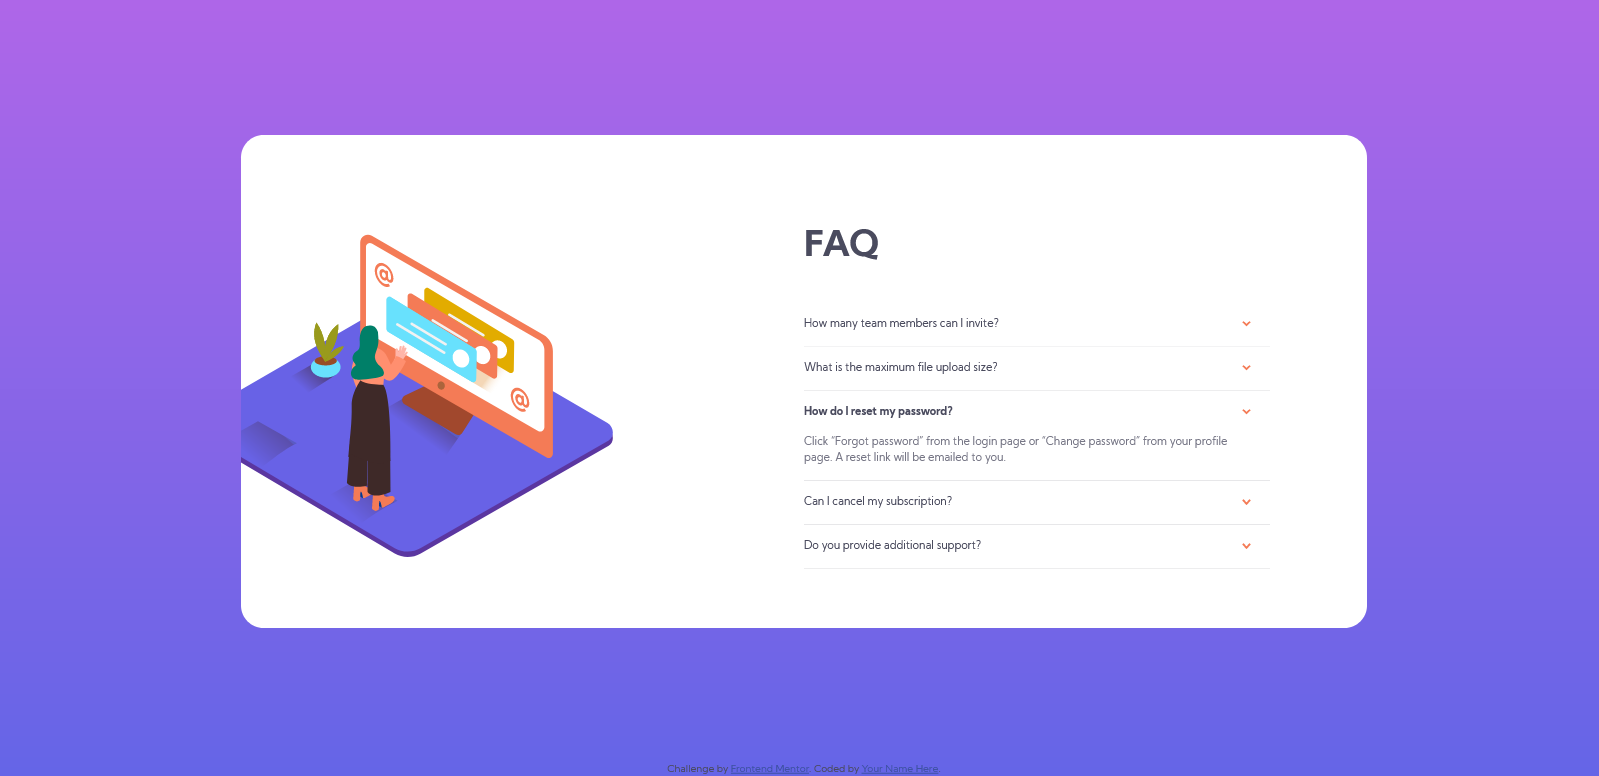
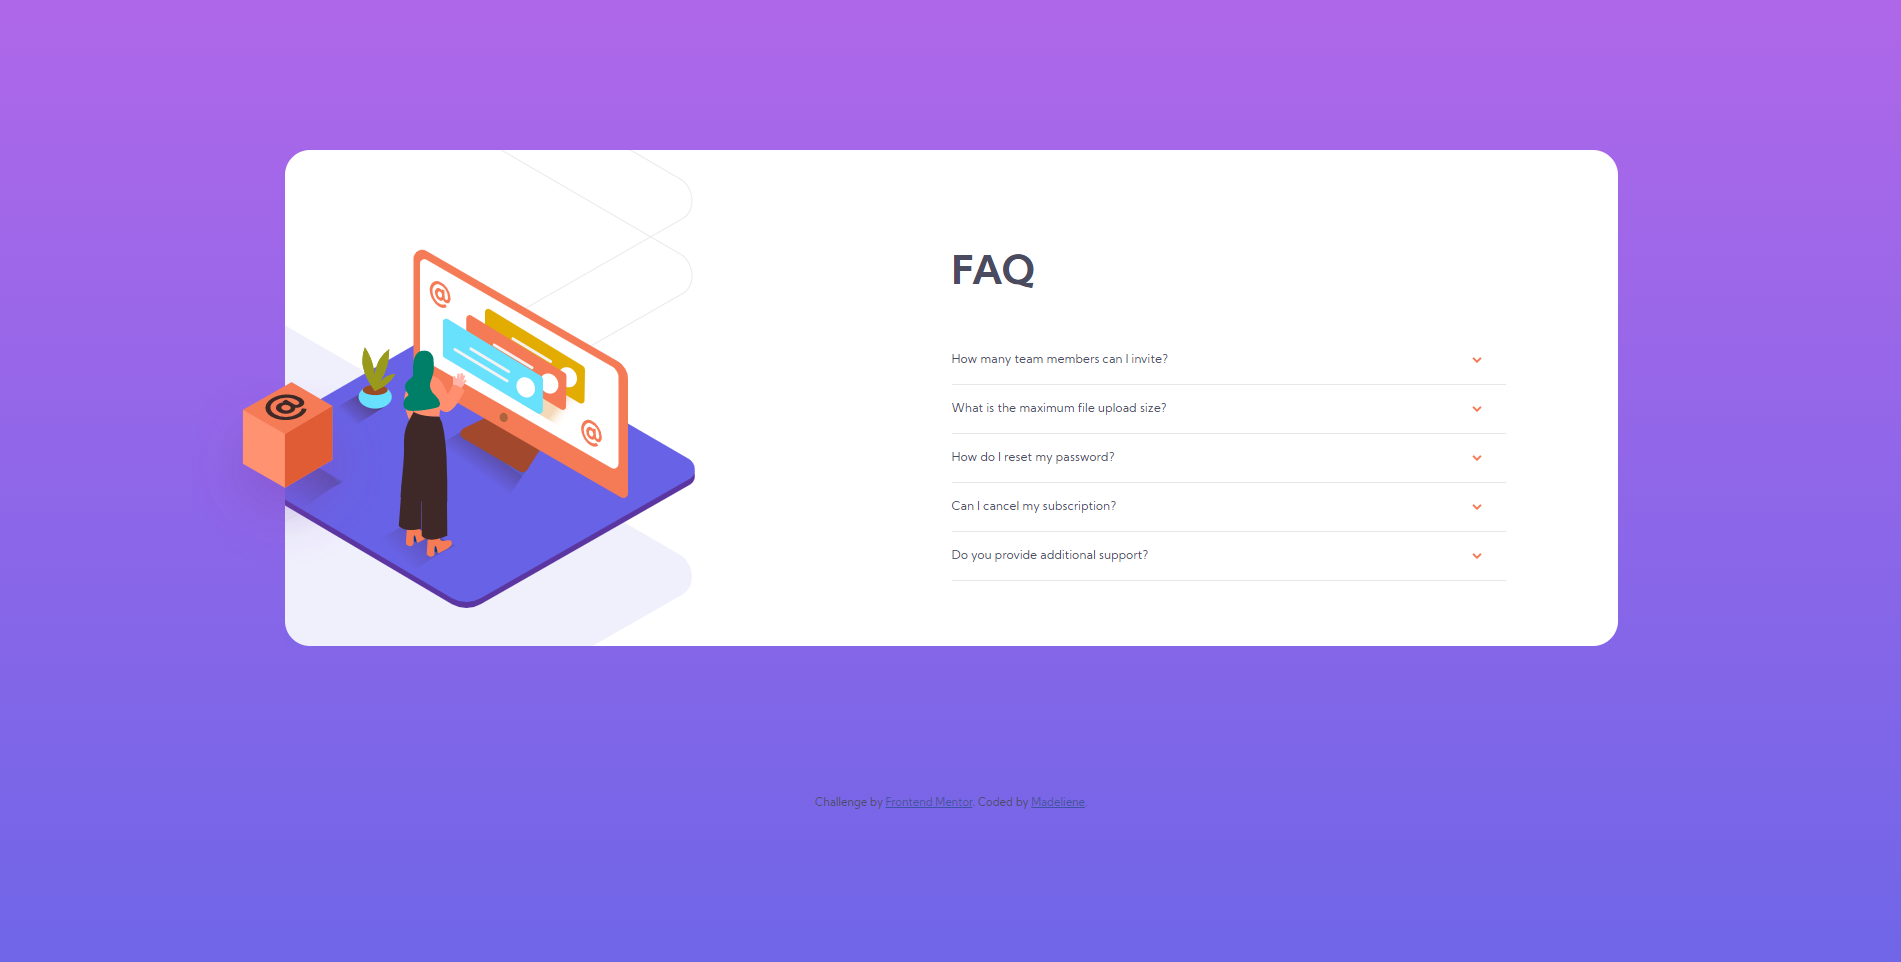
Update Desktop screenshot file, set website height to fit desktop screen height

diff --git a/index.html b/index.html
@@ -123,7 +123,7 @@
 
   <div class="attribution">
     Challenge by <a href="https://www.frontendmentor.io?ref=challenge" target="_blank">Frontend Mentor</a>.
-    Coded by <a href="#">Your Name Here</a>.
+    Coded by <a href="https://www.frontendmentor.io/profile/Madeliyen">Madeliene</a>.
   </div>
 
   <script src="https://ajax.googleapis.com/ajax/libs/jquery/3.5.1/jquery.min.js"></script>

diff --git a/styles.css b/styles.css
@@ -14,6 +14,7 @@ body {
   font-family: 'Kumbh Sans', sans-serif;
   font-size: 12px;
   font-weight: 400;
+  height: 100vh;
 }
 
 h1 {
